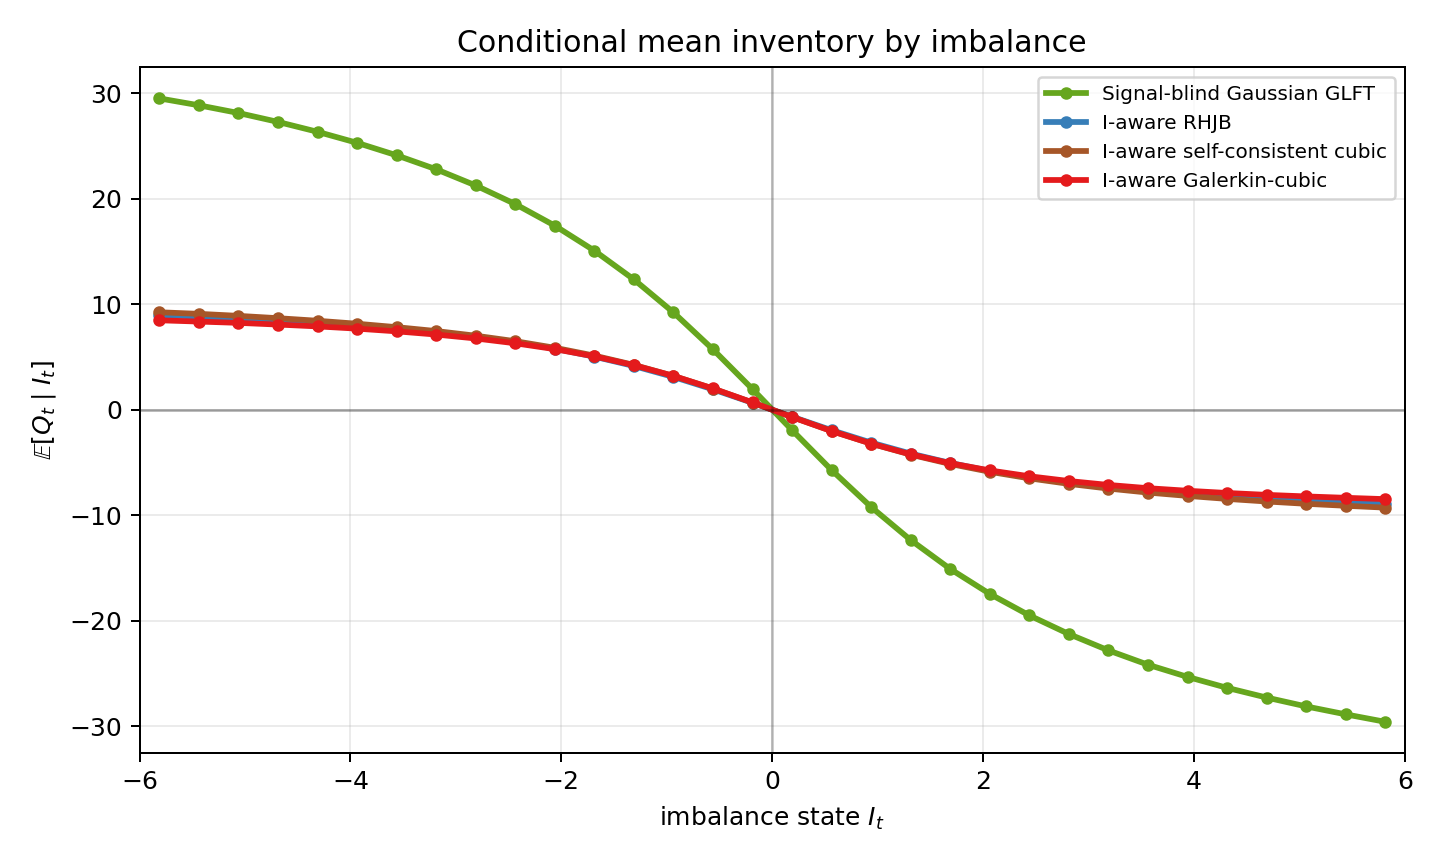
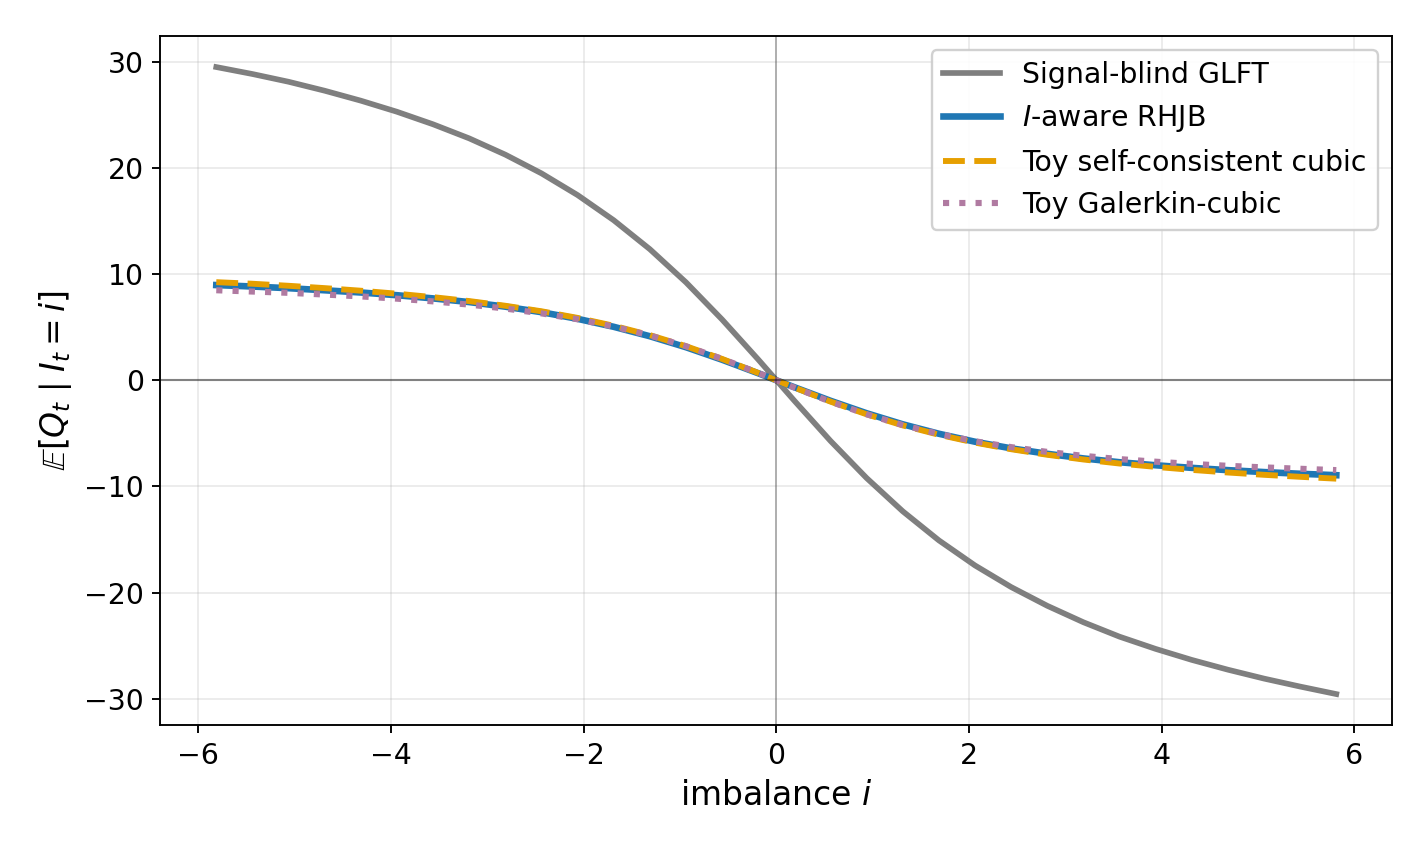
paper: notation, figure palette, Table 1, and two rigour points in the toy proof
Proof of Approximation 3.1: the cosh reduction error is multiplicative,
cosh{...}(1+O(r_G)) rather than +O(r_G). An additive O(r_G) would be
8.6e-3 against the a_c/k = 4.5e-4 coefficient the q^2 balance matches, so the
old form could not support the matching that follows. The slope term
E_i'(0)p is now split correctly across orders: r sinh(theta) into the q^1
balance and the slope-cubic cross term -s sinh(theta) q^2 into the q^2
balance, deferred to the residual R_2, instead of being attributed to the
loading channel.

Notation: the regime label is r throughout Sections 5-6 and Appendix C,
never \ell (which stays the ask/bid side index), with the convention stated
at the head of Section 5.1 before its first use; every regime-dependent
object carries it as a subscript (s_r, h_{shift,r}, vartheta_{full,r}).
Proposition 2.1 now says Y_t = I_t. eq:lambda_plus_y / minus_y renamed to
eq:lambda_ask / bid.

Table 1 gains the c_T row and its caption now covers diagnostic parameters;
the Delta t_rec row is used, and the off-grid shares are correctly described
as accumulated over simulated rather than recorded steps.

Figures: one palette per policy in the policy-comparison figures and the
role convention (RHJB black solid, body closed form orange dashed, Galerkin
purple dotted) in the depth figures; Figures 3, 4 and 12 replotted and the
convention stated in Table 2's caption. New repro script for Figure 4.

Changed region(s): [[0.0, 0.0306, 0.986, 0.9788]]

diff --git a/paper/main.tex b/paper/main.tex
@@ -642,11 +642,11 @@ In this extension, the zero-depth buy and sell intensities are given by
 \Lambda^{a,0}(i)
 &=\bar\Lambda(1+\tanh i)
 =\bar\Lambda\frac{\e^i}{\cosh i},
-\label{eq:lambda_plus_y}\\
+\label{eq:lambda_ask}\\
 \Lambda^{b,0}(i)
 &=\bar\Lambda(1-\tanh i)
 =\bar\Lambda\frac{\e^{-i}}{\cosh i}.
-\label{eq:lambda_minus_y}
+\label{eq:lambda_bid}
 \end{align}
 Therefore
 \[
@@ -738,7 +738,9 @@ regime extensions below.
 Fix the finite inventory grid \(\Qcal\).  Let the exogenous state
 \(Z_t=(Y_t,R_t)\) be a Markov switching diffusion: conditional on the
 finite-state chain \(R_t\), whose jump rates are bounded, the diffusion \(Y_t\)
-has globally Lipschitz coefficients and at most linear growth.  A pure
+has globally Lipschitz coefficients and at most linear growth.  In this paper
+\(Y_t=I_t\), the imbalance state, and \(R_t\) is present only in
+Section~\ref{sec:regime}.  A pure
 diffusion (such as the OU imbalance \eqref{eq:toy_ou}) and a pure finite-state
 chain are included as special cases.  Assume that the reference-price drift
 and volatility used in the control problem are bounded functions of the
@@ -1331,14 +1333,23 @@ base scales; the closure consequently has \(r=O(r_{\rm G})\), with
 same order one as the skew \(rq\) over the band the policy visits,
 \(q=O(r_{\rm G}^{-1})\).  The kept argument \(\vartheta+rq-sq^2\) is then
 \(O(1)\), whereas the dropped prefactor exponent \(sq-\tfrac r2\) is
-\(O(r_{\rm G})\) and the inner shift \(s/3\) is \(O(r_{\rm G}^2)\):
+\(O(r_{\rm G})\) and the inner shift \(s/3\) is \(O(r_{\rm G}^2)\).  Both
+are dropped, and because the prefactor multiplies the whole execution sum the
+cost is a \emph{relative} error:
 \begin{equation}
 \frac{\Lambda^{a,0}}{k}\chi_\gamma\e^{k(v_{q-1}-v_q)}
 +\frac{\Lambda^{b,0}}{k}\chi_\gamma\e^{k(v_{q+1}-v_q)}
 =\frac{2c_{\rm GLFT}}{k\cosh i}\,
-\cosh\bigl\{\vartheta+rq-s q^2\bigr\}+O(r_{\rm G}).
+\cosh\bigl\{\vartheta+rq-s q^2\bigr\}\bigl(1+O(r_{\rm G})\bigr).
 \label{eq:toy_cubic_cosh}
 \end{equation}
+Every coefficient matched below therefore carries a relative
+\(1+O(r_{\rm G})\) error, about \(2.6\%\) at the baseline.  The distinction
+matters: an additive \(O(r_{\rm G})\) would be of size
+\(\tfrac{2c_{\rm GLFT}}{k}\tfrac{r_{\rm G}}{2}\approx8.6\times10^{-3}\),
+an order of magnitude above the inventory-risk coefficient
+\(a_{\rm c}/k=4.5\times10^{-4}\) that the \(q^2\) balance matches, and could
+not support the matching that follows.
 
 \emph{Expansion in \(q\).}  With the inventory skew \(p:=rq-sq^2\) and
 \(\cosh\{\vartheta+p\}=\cosh\vartheta\cosh p+\sinh\vartheta\sinh p\), expanding
@@ -1391,11 +1402,14 @@ turn below.
 which by \eqref{eq:toy_cubic_cosh} is the local execution rate
 \(E_i(p)=\tfrac{2c_{\rm GLFT}}{k\cosh i}\cosh(\vartheta+p)\) evaluated at the
 inventory skew \(p=rq-sq^2\).  Its constant feeds the \(q^0\) balance and its
-slope term \(E_i'(0)\,p\) the loading channel (the \(q^1\) source of
-\eqref{eq:toy_q1_match}, together with the cross term
-\(-s\sinh\vartheta\,q^2\)); what sets the inventory curvature is how \(E_i\)
-curves with \(p\).  Matching the nonlinear part \(E_i(p)-E_i(0)-E_i'(0)p\) to
-the inventory-risk term \(\tfrac{a_{\rm c}}{k}q^2\), with
+slope term \(E_i'(0)\,p\) splits between two orders: it feeds the \(q^1\)
+balance \eqref{eq:toy_q1_match} through \(r\sinh\vartheta\) and, one order
+down, contributes the slope--cubic cross term \(-s\sinh\vartheta\,q^2\) to
+the \(q^2\) balance \eqref{eq:toy_cubic_q2}.  What sets the inventory curvature is how
+\(E_i\) curves with \(p\).  The inventory-risk contribution enters the balance
+as \(-\tfrac{a_{\rm c}}{k}q^2\), so we match the nonlinear part
+\(E_i(p)-E_i(0)-E_i'(0)p\) to \(\tfrac{a_{\rm c}}{k}q^2\), deferring the
+slope--cubic cross term to the residual \(\mathcal R_2\) below.  With
 \(p^2=r^2q^2-2rsq^3+O(q^4)\) and \(p^3=r^3q^3+O(q^4)\), the \(q^2\) and
 \(q^3\) coefficients give
 \[
@@ -1522,7 +1536,8 @@ trade-sign autocorrelations is left for future work.
 
 \begin{table}[htbp]
 \centering
-\caption{Model and simulation parameters used in the reported experiments.}
+\caption{Model, simulation, and diagnostic parameters used in the reported
+experiments.}
 \label{tab:parameters}
 \begin{tabular}{lll}
 \hline
@@ -1544,6 +1559,7 @@ Symbol & Meaning & Value\\
 \(T\) & simulation horizon & \(10000\)\\
 \(\Delta t\) & simulation time step & \(0.05\)\\
 \(\Delta t_{\rm rec}\) & diagnostic recording interval & \(1\)\\
+\(c_T\) & terminal liquidation charge & \(0.01\)\\
 paths & Monte Carlo paths & \(20000\)\\
 \hline
 \end{tabular}
@@ -1562,7 +1578,10 @@ regime-aware RHJB takes \(R_t\) as perfectly observed---a full-information
 benchmark, the target the regime closed forms approximate.  These names are
 used in the result tables and figure legends below, abbreviated there by
 dropping the ``signal-blind'', ``RHJB'' and study qualifiers where the column
-width requires it.}
+width requires it.  Two drawing conventions run through the figures: in the
+depth comparisons the section's numerical RHJB is solid black, the body closed
+form dashed orange and the appendix Galerkin form dotted purple; in the
+policy-comparison figures each policy keeps one colour throughout.}
 \label{tab:policies}
 \begin{tabular}{llll}
 \toprule
@@ -1747,7 +1766,7 @@ If \(\alpha_t\) mean-reverts much faster than \(I_t\), its \(I\)-conditional mea
 At leading order in the fast-\(\alpha\) limit we freeze the slow variable
 \(I_t=i\).  Conditioning \eqref{eq:alpha_full_sde} on \(I_t=i\), the drift of \(\alpha_t\)
 is \(-\zeta\,\E[\alpha_t\mid i]+\epsilon\bigl(\Lambda^{a,0}(i)-\Lambda^{b,0}(i)\bigr)\),
-and \eqref{eq:lambda_plus_y}--\eqref{eq:lambda_minus_y} give
+and \eqref{eq:lambda_ask}--\eqref{eq:lambda_bid} give
 \(\epsilon(\Lambda^{a,0}(i)-\Lambda^{b,0}(i))=2\bar\Lambda\epsilon\tanh i\) (the
 diffusion \(\eta_\alpha\dd W^\alpha_t\) has zero conditional mean).  Setting this
 frozen-\(I\) drift to zero gives \eqref{eq:alpha_bar_fast}; corrections from the
@@ -2263,7 +2282,14 @@ drives the cost of quoting, ours the future flow).  The simulated state is
 \subsection{Regime-Modulated Imbalance Process}
 \label{subsec:regime_process}
 
-Let \(\mathcal R\) be a finite set of regime labels.  The regime process
+Let \(\mathcal R\) be a finite set of regime labels.  Throughout
+Sections~\ref{sec:regime}--\ref{sec:numerical_implementation} and
+Appendix~\ref{app:regime_refined} the regime label is \(r\), carried as a
+subscript on every regime-dependent object (\(z_r\), \(u_{q,r}\),
+\(h_{{\rm shift},r}\), \(\vartheta_{{\rm full},r}\), \(s_r\)) and as the last
+argument of the quote functions; the inventory curvature is a different object,
+written \(r(i)\) when state-dependent and \(r_{\rm G}\) for its frozen GLFT
+value, and never carries a regime subscript.  The regime process
 \(R_t\in\mathcal R\) is a
 continuous-time Markov chain with generator
 \[
@@ -2308,7 +2334,7 @@ eigenvector, \(\Gamma z=-(1/\tau_R)z\); the closed-form regime ansatz below
 uses this eigenmode relation with \(\lambda_R=1/\tau_R\).
 
 The zero-depth execution intensities remain
-\eqref{eq:lambda_plus_y}--\eqref{eq:lambda_minus_y}, functions of the current
+\eqref{eq:lambda_ask}--\eqref{eq:lambda_bid}, functions of the current
 imbalance \(I_t\) alone: \(R_t\) does not enter the fill law directly, but
 changes the conditional law of future \(I\)-values in
 \eqref{eq:regime_y_dynamics}, so two paths with the same current \(I_t=i\) can
@@ -2483,28 +2509,25 @@ deferred to Appendix~\ref{app:regime_refined}.
 \paragraph{Regime hybrid flow-gated cubic (body closure).}
 The regime extends the fast-alpha hybrid flow-gated cubic
 \eqref{eq:fast_alpha_selfconsistent_quotes} by a third, \emph{slow} channel.
-To distinguish the regime label from the curvature \(r(i)\), write
-\(\ell\in\mathcal R\) for the former throughout this paragraph; the ask/bid
-side, elsewhere carried by \(\ell\in\{a,b\}\), is written out explicitly.
 With \(h_I,h_\alpha,A_2,\vartheta_I,\mathcal M_I,r(i)\) and \(g\) exactly as
 in \eqref{eq:fa_selfcons_loadings}--\eqref{eq:fa_selfcons_shift}---the
 curvature still reads the flow-only shift \(\vartheta_I\), retaining the much
 smaller flow-only curvature plateau, and the skew still flow-gates the two
-\emph{fast} channels---the only change is the regime level \(A_Rz_\ell\),
+\emph{fast} channels---the only change is the regime level \(A_Rz_r\),
 carried ungated in the shift,
 \begin{equation}
-\boxed{\,h_{\rm shift}(i,\ell)=\mathcal M_I\,h_I
-+\bigl[1+g(\mathcal M_I-1)\bigr]h_\alpha+A_R z_\ell\,}
+\boxed{\,h_{{\rm shift},r}(i)=\mathcal M_I\,h_I
++\bigl[1+g(\mathcal M_I-1)\bigr]h_\alpha+A_R z_r\,}
 \label{eq:regime_sc_shift}
 \end{equation}
-with \(\vartheta_{\rm full}(i,\ell)=i-k\,h_{\rm shift}(i,\ell)\) and cubic
-\(s(i,\ell)=\tfrac{r(i)^2}{6}\tanh\vartheta_{\rm full}(i,\ell)\) as in
+with \(\vartheta_{{\rm full},r}(i)=i-k\,h_{{\rm shift},r}(i)\) and cubic
+\(s_r(i)=\tfrac{r(i)^2}{6}\tanh\vartheta_{{\rm full},r}(i)\) as in
 \eqref{eq:fa_selfcons_cubic}, so that
 \begin{equation}
 \boxed{\;
 \begin{aligned}
-\delta_{R,\,\text{hybrid}}^a(q,i,\ell)&=\delta_\gamma+h_{\rm shift}-\tfrac{r(i)}{2k}(2q-1)+\tfrac{s(i,\ell)}{k}\bigl(q^2-q+\tfrac13\bigr),\\[2pt]
-\delta_{R,\,\text{hybrid}}^b(q,i,\ell)&=\delta_\gamma-h_{\rm shift}+\tfrac{r(i)}{2k}(2q+1)-\tfrac{s(i,\ell)}{k}\bigl(q^2+q+\tfrac13\bigr),
+\delta_{R,\,\text{hybrid}}^a(q,i,r)&=\delta_\gamma+h_{{\rm shift},r}-\tfrac{r(i)}{2k}(2q-1)+\tfrac{s_r(i)}{k}\bigl(q^2-q+\tfrac13\bigr),\\[2pt]
+\delta_{R,\,\text{hybrid}}^b(q,i,r)&=\delta_\gamma-h_{{\rm shift},r}+\tfrac{r(i)}{2k}(2q+1)-\tfrac{s_r(i)}{k}\bigl(q^2+q+\tfrac13\bigr),
 \end{aligned}\;}
 \label{eq:regime_sccubic_quotes}
 \end{equation}
@@ -2524,13 +2547,14 @@ reaches \(\approx0.65\) on the same comparison.  The gated form is an
 ablation, not the reported policy.
 
 \paragraph{Status and limit.}
-The split use of \(\vartheta_I\) in \(r\) and \(\vartheta_{\rm full}\) in
-\(s\) is a hybrid empirical closure validated numerically, not a theorem or a
+The split use of \(\vartheta_I\) in the curvature \(r(i)\) and of
+\(\vartheta_{{\rm full},r}\) in the cubic \(s_r\) is a hybrid empirical
+closure validated numerically, not a theorem or a
 strict coefficient match; \(A_\alpha,A_R\) are local-linear coefficients
 extended as bounded profiles.  At balanced flow \(i=0\) the fast channels vanish
-but the regime channel does not: \(h_{\rm shift}(0,\ell)=A_R z_\ell\), so a non-neutral
-regime keeps the book biased and \(s(0,\ell)\neq0\); only the fully neutral state
-(\(i=0,\ z_\ell=0\)) recovers the signal-blind GLFT quotes.
+but the regime channel does not: \(h_{{\rm shift},r}(0)=A_R z_r\), so a non-neutral
+regime keeps the book biased and \(s_r(0)\neq0\); only the fully neutral state
+(\(i=0,\ z_r=0\)) recovers the signal-blind GLFT quotes.
 
 \subsection{Regime Numerical Study}
 
@@ -2577,8 +2601,8 @@ balanced flow (\(q=0\), \(i=0\)) the RHJB's own slope in \(z_r\) is \(0.246\),
 close to the Galerkin-local value \(B_G\approx0.257\) of
 Appendix~\ref{app:regime_refined}, so the imported \(A_R\) overstates the regime
 response at the origin by about a third; away from the origin the hybrid
-cubic, whose cubic skew also reads the regime through \(\vartheta_{\rm full}\),
-stays closer to the RHJB.}
+cubic, whose cubic skew also reads the regime through
+\(\vartheta_{{\rm full},r}\), stays closer to the RHJB.}
 \label{fig:regime_depths_vs_alpha_z}
 \end{figure}
 
@@ -2775,7 +2799,11 @@ joint invariant law of \((I,R)\), whose conditional means are \(\pm0.75\)
 rather than \(z_{\pm1}\) (Remark~\ref{rem:domain_convergence}); over
 \(T=10000\) the initialization bias relaxes on the \(1/\beta\) timescale.
 
-Within each step, quotes and intensities use the left-endpoint state.  \(S\),
+The reported path diagnostics---PnL and its components, inventory, and the
+state variables---are sampled into the recorded series every
+\(\Delta t_{\rm rec}=1\) time unit rather than at every simulation step; the
+off-grid shares below are instead accumulated at every step.  Within each
+step, quotes and intensities use the left-endpoint state.  \(S\),
 \(I\), and the diffusive part of \(\alpha\) are advanced by Euler--Maruyama;
 maker fills and aggregate market-order counts are Poisson increments with
 left-endpoint means.  The regime chain uses a one-jump-per-step update with
@@ -2789,7 +2817,7 @@ clips \(I_t\) to the nearest boundary point before interpolation, while
 use the same \(i_c=\operatorname{clip}(I_t,-6,6)\), since their single global
 loading otherwise drives the curvature off-grid
 (Remark~\ref{rem:regime_galerkin}); the body cubic closures and the toy
-Galerkin form use the true \(I_t\).  The shares of recorded time--path
+Galerkin form use the true \(I_t\).  The shares of simulated time--path
 states outside the solve grid are \(0.298\%\) (toy), \(0.302\%\)
 (fast-alpha) and \(0.490\%\) (regime); no clipping ablation was run, so the
 closed-form-versus-RHJB contrasts differ in the off-grid rule as well as in
@@ -3171,49 +3199,49 @@ exactly as there:
 The offline-calibrated companion of the body hybrid flow-gated cubic
 \eqref{eq:regime_sccubic_quotes}, the \emph{regime Galerkin-cubic}, carries the
 fast-alpha global Galerkin loading of Appendix~\ref{app:fast_alpha_refined} into
-the regime model and adds the slow regime channel.  Here \(\ell\in\mathcal R\)
-is the regime index (distinct from the curvature \(r(i)\)); the ask/bid side,
-elsewhere \(\ell\in\{a,b\}\), is written out.  Under the separable closure
-\(h_\ell(i)=h_G(i)+Bz_\ell\) the extra regime term in the \(q^1\) balance,
-\(z_\ell[\beta h_G'(i)-(\lambda_R+2\kappa)B]\), is even in \(i\) (\(h_G\) odd),
+the regime model and adds the slow regime channel.  The subscript convention of
+Section~\ref{sec:regime} applies: \(r\in\mathcal R\) is the regime label and
+\(r(i)\) the curvature.  Under the separable closure
+\(h_r(i)=h_G(i)+Bz_r\) the extra regime term in the \(q^1\) balance,
+\(z_r[\beta h_G'(i)-(\lambda_R+2\kappa)B]\), is even in \(i\) (\(h_G\) odd),
 hence orthogonal to the odd test functions \(\{i,i^3\}\) under the centred OU
 weight: the moment equations for \((A,\varrho)\) of
 \eqref{eq:fa_galerkin_constants} are unchanged---a parity statement, not an
-invariance of the full \((i,\ell)\)-Galerkin residual (it fails if
-\(Bz_\ell\) enters the nonlinear curvature, under the true joint weight
-\(p_\ell(i)\), or with even test functions).  Parity also leaves \(B\)
+invariance of the full \((i,r)\)-Galerkin residual (it fails if
+\(Bz_r\) enters the nonlinear curvature, under the true joint weight
+\(p_r(i)\), or with even test functions).  Parity also leaves \(B\)
 undetermined: a Galerkin-local closure gives
 \(B_G=\beta A/(\lambda_R+2\kappa)\approx0.257\); we import the body-ansatz
 \(A_R\approx0.331\) of \eqref{eq:regime_closed_loading} for continuity with the
 body hybrid cubic; the numerical RHJB's slope in \(z_r\) at balanced flow,
 \(0.246\) (Figure~\ref{fig:regime_depths_vs_alpha_z}), sits at the
-Galerkin-local value rather than at \(A_R\).  No full \((i,\ell)\)-Galerkin residual is re-solved: the
+Galerkin-local value rather than at \(A_R\).  No full \((i,r)\)-Galerkin residual is re-solved: the
 fast-alpha loading is kept, the regime channel added, and the curvature/cubic
 evaluated at the \emph{regime-excluded} fast-alpha Galerkin shift,
 \begin{equation}
 h_G^{\rm fa}(i)=A\,\frac{i}{\sqrt{1+\tfrac{\beta}{\varrho\,\eta^2}i^2}},\qquad
-h_G^{\rm reg}(i,\ell)=h_G^{\rm fa}(i)+A_R z_\ell,\qquad
+h_{G,r}^{\rm reg}(i)=h_G^{\rm fa}(i)+A_R z_r,\qquad
 \vartheta_G(i)=i-k\,h_G^{\rm fa}(i),\label{eq:regime_galerkin_loading}
 \end{equation}
 with \(r(i)\), \(s(i)\) as in \eqref{eq:fa_curvature_rs} evaluated at
 \(\vartheta_G\); the optimal-quote map returns
 \begin{equation}
-\delta_{R,\rm gal}^{a,b}(q,i,\ell)=\delta_\gamma\pm h_G^{\rm reg}(i,\ell)
+\delta_{R,\rm gal}^{a,b}(q,i,r)=\delta_\gamma\pm h_{G,r}^{\rm reg}(i)
 \mp\tfrac{r(i)}{2k}(2q\mp1)\pm\tfrac{s(i)}{k}\bigl(q^2\mp q+\tfrac13\bigr),
-\qquad \ell\in\mathcal R.\label{eq:regime_galerkin_quotes}
+\qquad r\in\mathcal R.\label{eq:regime_galerkin_quotes}
 \end{equation}
 
 \begin{remark}[Offline Galerkin companion and solve-grid tail inflation]
 \label{rem:regime_galerkin}
 The plateau mechanism and the solve-grid curvature inflation of
 Remark~\ref{rem:fa_galerkin_tradeoff} carry over unchanged, with the same
-\(r/r_{\rm G}\approx9\) at \(i=6\).  The verdict, however, does not.  On the
+\(r(i)/r_{\rm G}\approx9\) at \(i=6\).  The verdict, however, does not.  On the
 pooled imbalance-axis comparison against the numerical regime RHJB (over
 \(q\in\{-5,0,10,15\}\) and the three regimes) the regime Galerkin-cubic has
 depth RMSE \(\approx0.65\), versus \(\approx0.10\) for the body hybrid
 flow-gated cubic \eqref{eq:regime_sccubic_quotes}, and it buys no matching
 inventory-axis advantage: that ordering depends on the fixed
-\((i,\ell)\)-slice and on the inventory window.  Unlike its fast-alpha
+\((i,r)\)-slice and on the inventory window.  Unlike its fast-alpha
 counterpart it is therefore \emph{not} an inventory specialist, and we retain
 it as an offline comparison only; the body hybrid cubic is the balanced
 default.

diff --git a/repro/toy_conditional_inventory_fig.py b/repro/toy_conditional_inventory_fig.py
@@ -1,0 +1,24 @@
+"""Toy-model conditional inventory E[Q | I] (Fig. cara_glft_expected_inventory_vs_y).
+Redrawn from the committed cara_glft_expected_inventory_vs_y.csv with the paper's
+per-policy palette, shared with the inventory-by-regime figure.  Writes to paper/images_final/."""
+import csv, numpy as np, matplotlib
+matplotlib.use("Agg"); import matplotlib.pyplot as plt
+from pathlib import Path
+REPO = Path(__file__).resolve().parent.parent
+OUT = REPO / "paper" / "images_final"; DATA = REPO / "imagens_tex" / "toy_model_T10000_qmax60"
+plt.rcParams.update({"font.size":14,"axes.titlesize":15,"axes.labelsize":14,"xtick.labelsize":12,
+                     "ytick.labelsize":12,"legend.fontsize":12,"axes.grid":True,"grid.alpha":.25})
+rows = list(csv.DictReader(open(DATA / "cara_glft_expected_inventory_vs_y.csv")))
+y = np.array([float(r["y_center"]) for r in rows])
+SER = [("Signal-blind_Gaussian_GLFT", "Signal-blind GLFT",       "#7f7f7f", "-",  2.4),
+       ("I-aware_RHJB",               "$I$-aware RHJB",          "#1f77b4", "-",  2.8),
+       ("cubic-skew_refined_ansatz",  "Toy self-consistent cubic","#E69F00", "--", 2.5),
+       ("I-aware_galerkin_ansatz",    "Toy Galerkin-cubic",      "#B07AA1", ":",  2.6)]
+fig, ax = plt.subplots(figsize=(8.4, 5.0))
+for key, lab, col, ls, lw in SER:
+    ax.plot(y, np.array([float(r[key]) for r in rows]), label=lab, color=col, ls=ls, lw=lw)
+ax.axhline(0, color="k", lw=.9, alpha=.45); ax.axvline(0, color="k", lw=.7, alpha=.3)
+ax.set_xlabel("imbalance $i$"); ax.set_ylabel(r"$\mathbb{E}[Q_t\mid I_t=i]$")
+ax.legend(loc="upper right", framealpha=.9)
+fig.tight_layout(); fig.savefig(OUT / "cara_glft_expected_inventory_vs_y.png", dpi=170)
+print("wrote", OUT / "cara_glft_expected_inventory_vs_y.png")

diff --git a/repro/inventory_by_regime_fig.py b/repro/inventory_by_regime_fig.py
@@ -10,9 +10,9 @@ OUT = REPO / "paper" / "images_final"; DATA = REPO / "imagens_tex" / "regime_stu
 plt.rcParams.update({"font.size":13,"axes.titlesize":14,"axes.labelsize":13,"xtick.labelsize":12,"ytick.labelsize":12,"legend.fontsize":11,"axes.grid":True,"grid.alpha":.25})
 rows = list(csv.DictReader(open(DATA / "regime_fast_alpha_inventory_by_regime.csv")))
 rows.sort(key=lambda r: int(r["regime"]))
-POL = [("GLFT_mean_q","Signal-blind GLFT","#4c72b0"),("Y-aware_mean_q","$I$-aware RHJB","#55a868"),
+POL = [("GLFT_mean_q","Signal-blind GLFT","#7f7f7f"),("Y-aware_mean_q","$I$-aware RHJB","#1f77b4"),
        ("Alpha/Y-aware_mean_q","Alpha/$I$-aware RHJB","#c44e52"),("Regime-aware_mean_q","Regime-aware RHJB","#111111"),
-       ("Regime sc-cubic_mean_q","Regime hybrid cubic","#1B9E77"),("Regime Galerkin_mean_q","Regime Galerkin-cubic","#B07AA1")]
+       ("Regime sc-cubic_mean_q","Regime hybrid cubic","#E69F00"),("Regime Galerkin_mean_q","Regime Galerkin-cubic","#B07AA1")]
 reg = np.array([int(r["regime"]) for r in rows]); x = np.arange(len(reg)); n = len(POL)
 width = 0.8 / n; offs = (np.arange(n) - 0.5 * (n - 1)) * width
 fig, ax = plt.subplots(figsize=(9.2, 4.8))

diff --git a/repro/depth_figs_from_csv.py b/repro/depth_figs_from_csv.py
@@ -21,7 +21,7 @@ def rows_fig(d, key, vals, xkey, xlabel, cols, labels, styles, title_fn, out, fi
     for a in ax[-1]: a.set_xlabel(xlabel)
     ax[0,0].legend(loc="best", framealpha=.9); fig.tight_layout(); fig.savefig(out, dpi=170); plt.close(fig); print("wrote", out)
 S_RHJB=dict(ls="-",lw=2.8,color="#111111"); S_HYB=dict(ls="--",lw=2.5,color="#E69F00"); S_GAL=dict(ls=":",lw=2.6,color="#B07AA1")
-S_TOY_RHJB=dict(ls="-",lw=2.8,color="#1f77b4"); S_TOY_SC=dict(ls="--",lw=2.5,color="#8c564b"); S_TOY_GAL=dict(ls=":",lw=2.6,color="#d62728")
+S_TOY_RHJB=dict(ls="-",lw=2.8,color="#111111"); S_TOY_SC=dict(ls="--",lw=2.5,color="#E69F00"); S_TOY_GAL=dict(ls=":",lw=2.6,color="#B07AA1")
 # B toy depths vs imbalance (q = 0, 3, 5 -- only values stored)
 d=load(f"{ROOT}/toy_model_T10000_qmax60/cara_glft_yaware_ansatz_depths_vs_imbalance.csv")
 rows_fig(d,"q",[0,3,5],"y","imbalance $i$",[("ask_hjb","bid_hjb"),("ask_cubic","bid_cubic"),("ask_gal","bid_gal")],
